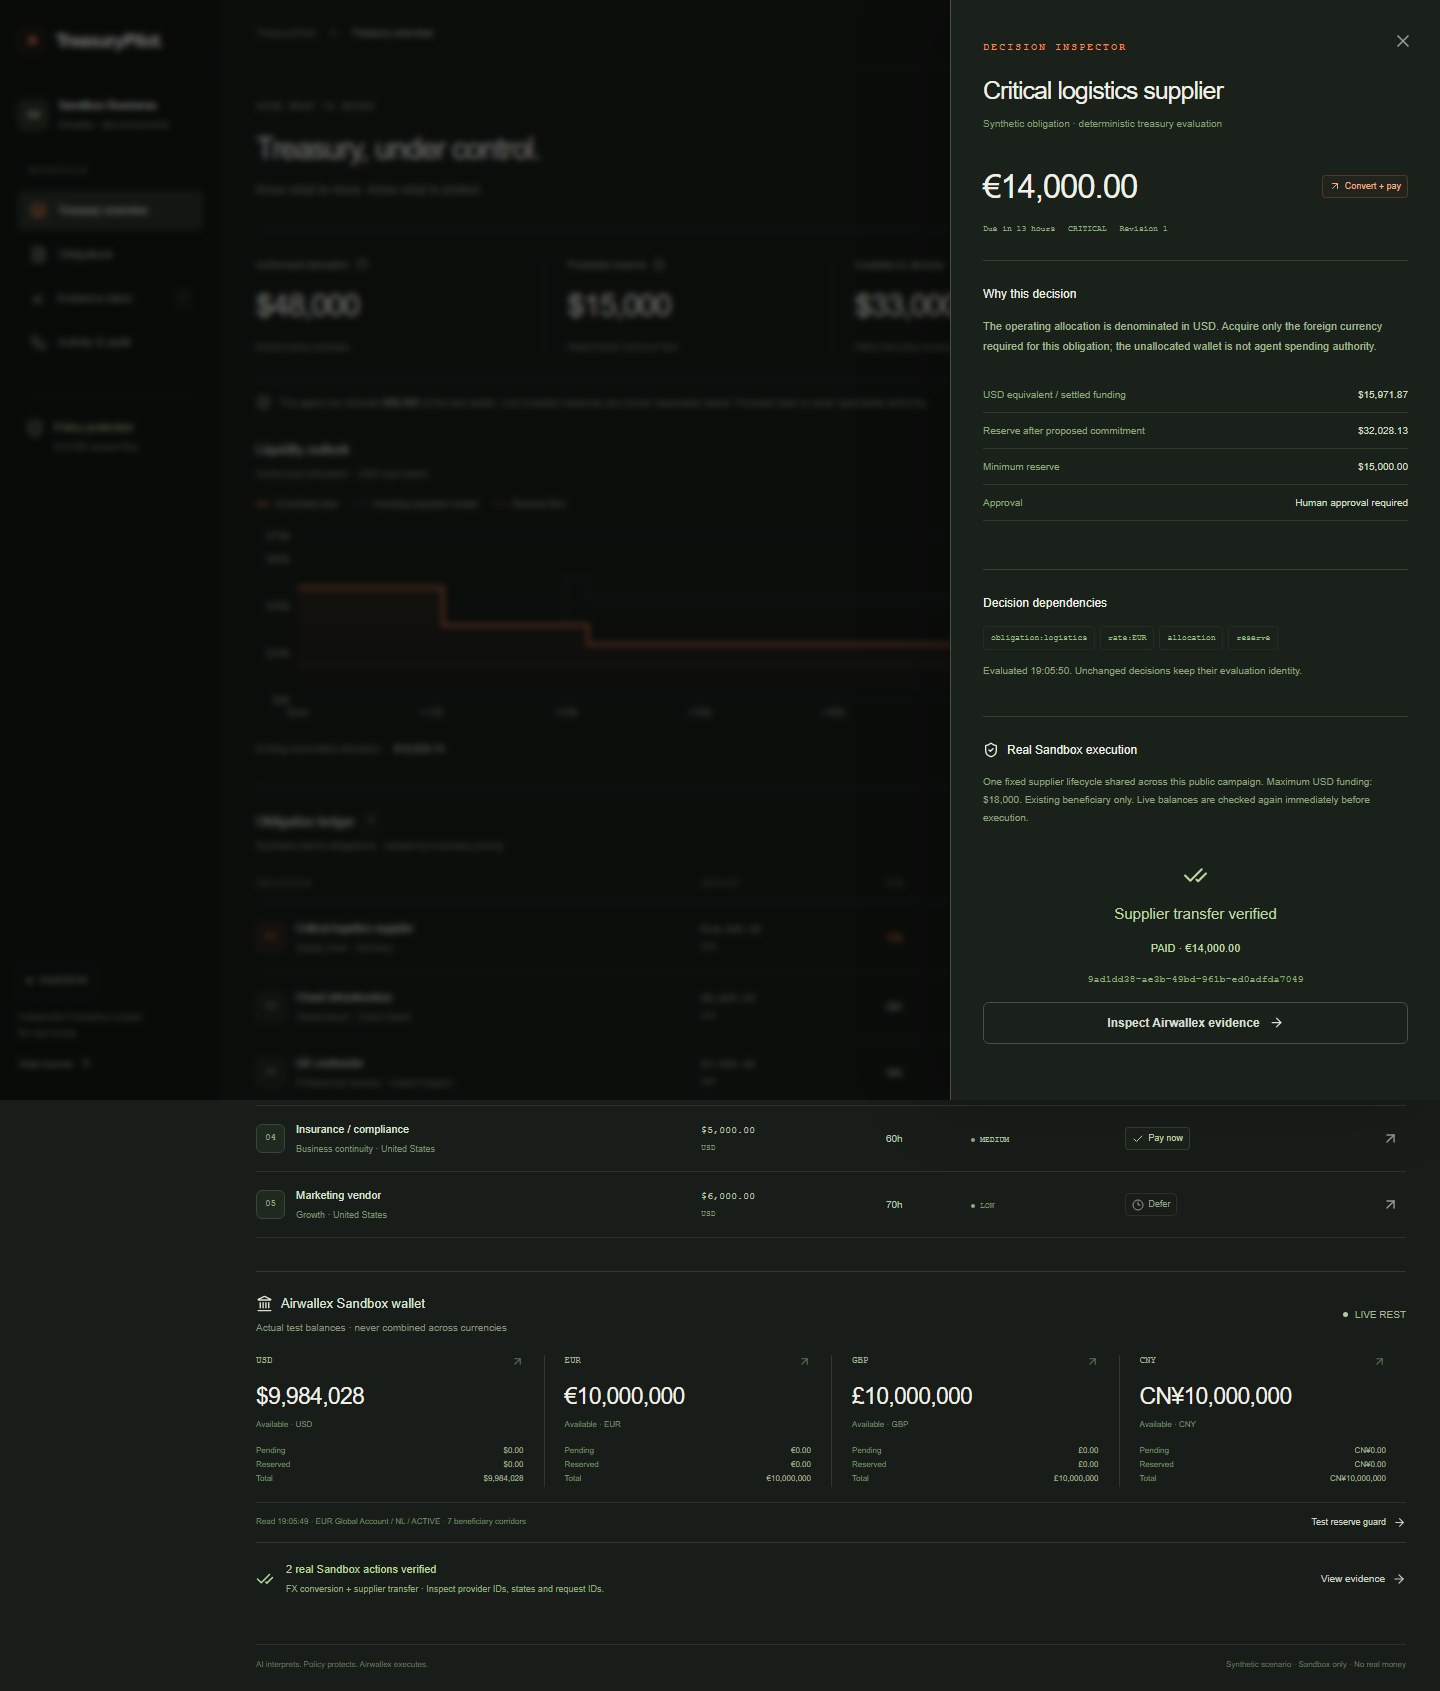
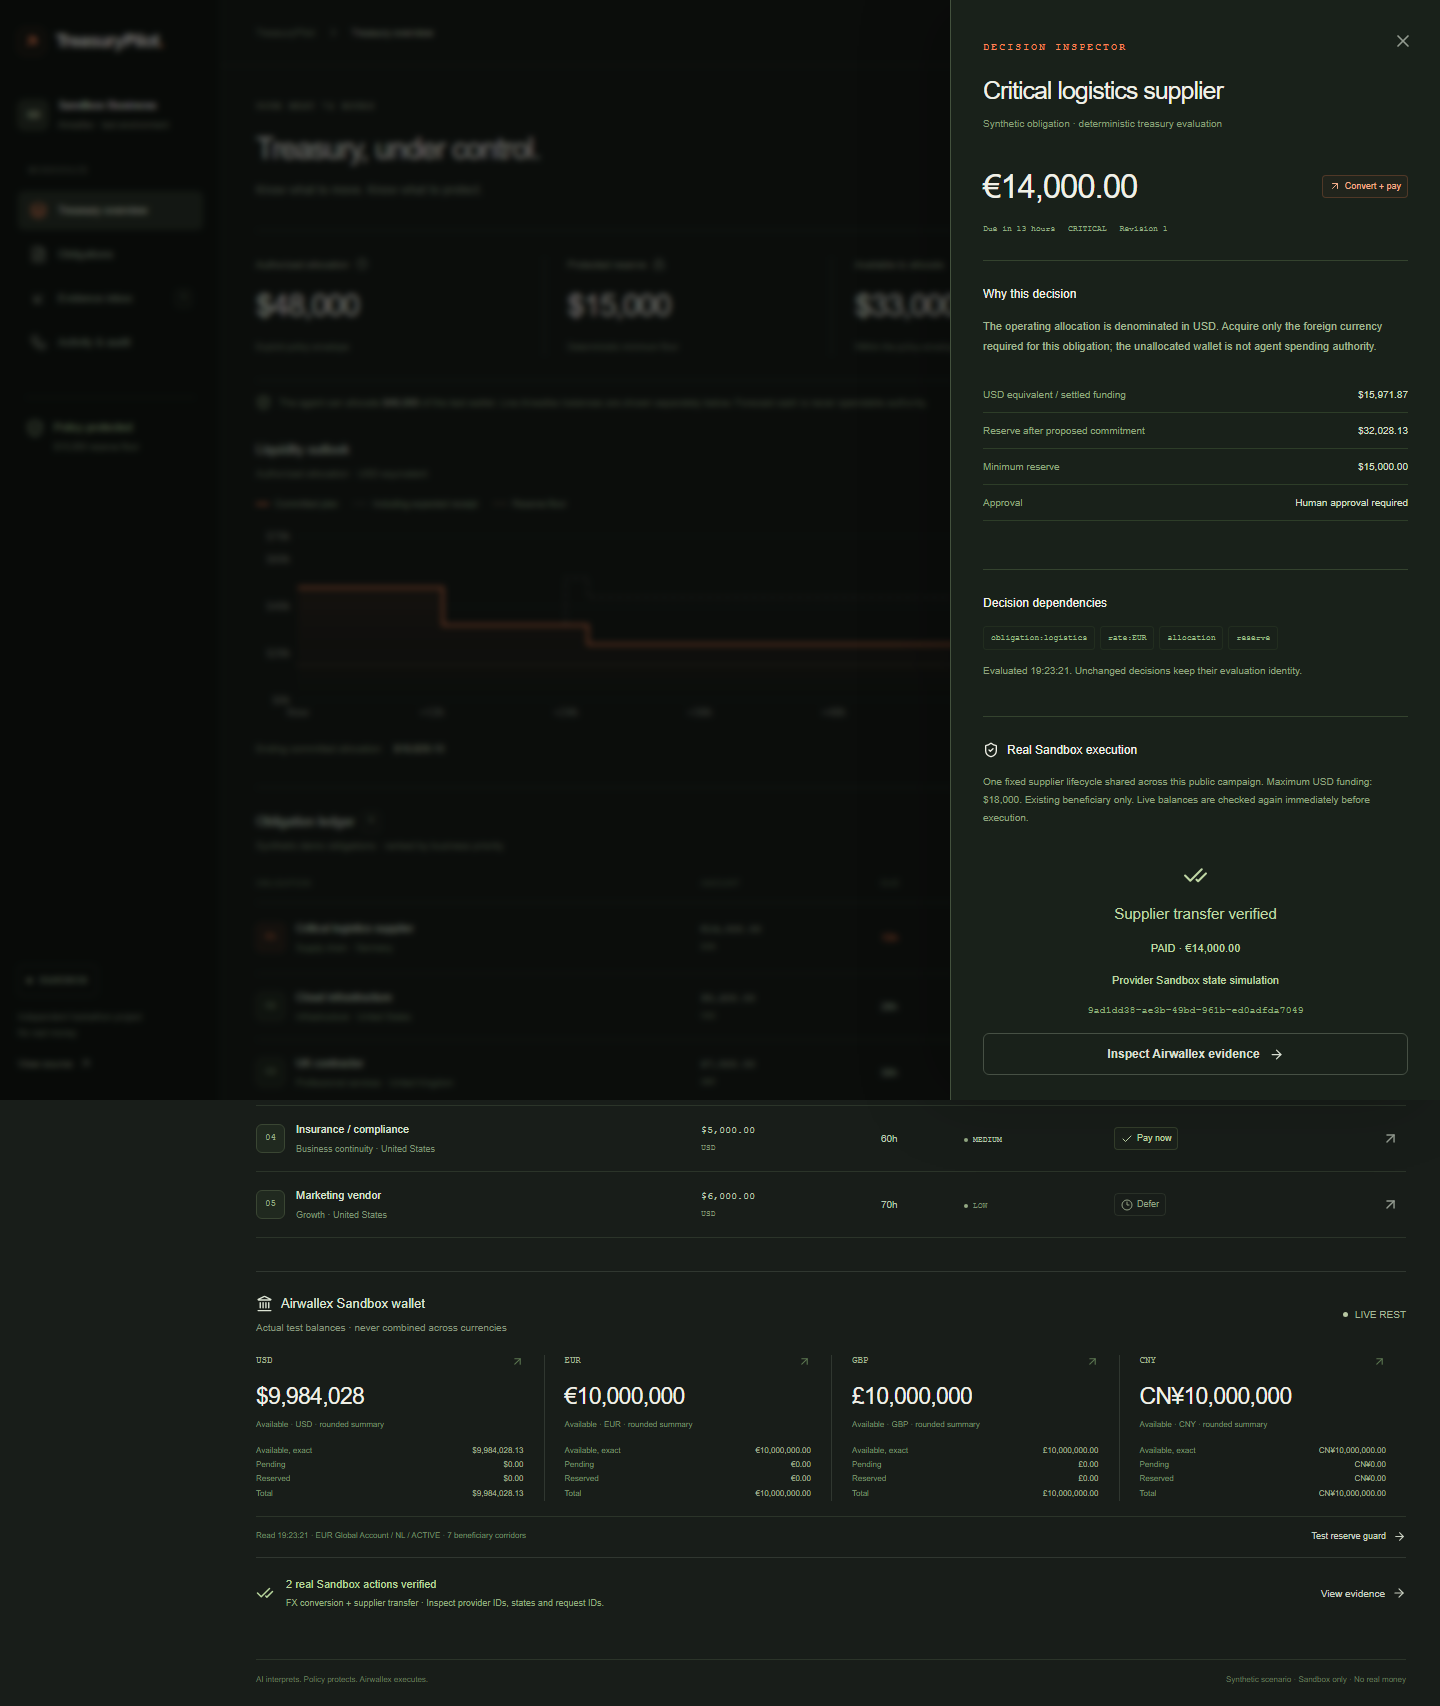
Finalize exact balance display and verified deployment evidence

diff --git a/components/treasury-workspace.tsx b/components/treasury-workspace.tsx
@@ -982,8 +982,12 @@ export function TreasuryWorkspace() {
                           <strong>
                             {b ? formatMoney(b.available, c, true) : "Reading…"}
                           </strong>
-                          <small>Available · {c}</small>
+                          <small>Available · {c} · rounded summary</small>
                           <dl>
+                            <div>
+                              <dt>Available, exact</dt>
+                              <dd>{b ? formatMoney(b.available, c) : "—"}</dd>
+                            </div>
                             <div>
                               <dt>Pending</dt>
                               <dd>{b ? formatMoney(b.pending, c) : "—"}</dd>
@@ -994,7 +998,7 @@ export function TreasuryWorkspace() {
                             </div>
                             <div>
                               <dt>Total</dt>
-                              <dd>{b ? formatMoney(b.total, c, true) : "—"}</dd>
+                              <dd>{b ? formatMoney(b.total, c) : "—"}</dd>
                             </div>
                           </dl>
                         </div>

diff --git a/docs/screenshots/README.md b/docs/screenshots/README.md
@@ -2,6 +2,8 @@
 
 Desktop captures are 1440 pixels wide. `05-fx-action` and `07-human-approval` are genuine pre-conversion views captured before the first financial execution. Later captures show fresh state after real operations. No account credentials or bank details appear.
 
+The original approval capture includes a development issue indicator from a reduced-motion hydration mismatch that was corrected before the final build. It is preserved as genuine historical evidence; the final public deployment has no hydration/page errors.
+
 1. `01-landing.png` — full composition and approach.
 2. `02-treasury-dashboard.png` — actual Sandbox balances and explicit policy metrics.
 3. `03-five-obligations-plan.png` — calculated obligation ledger and timeline.
